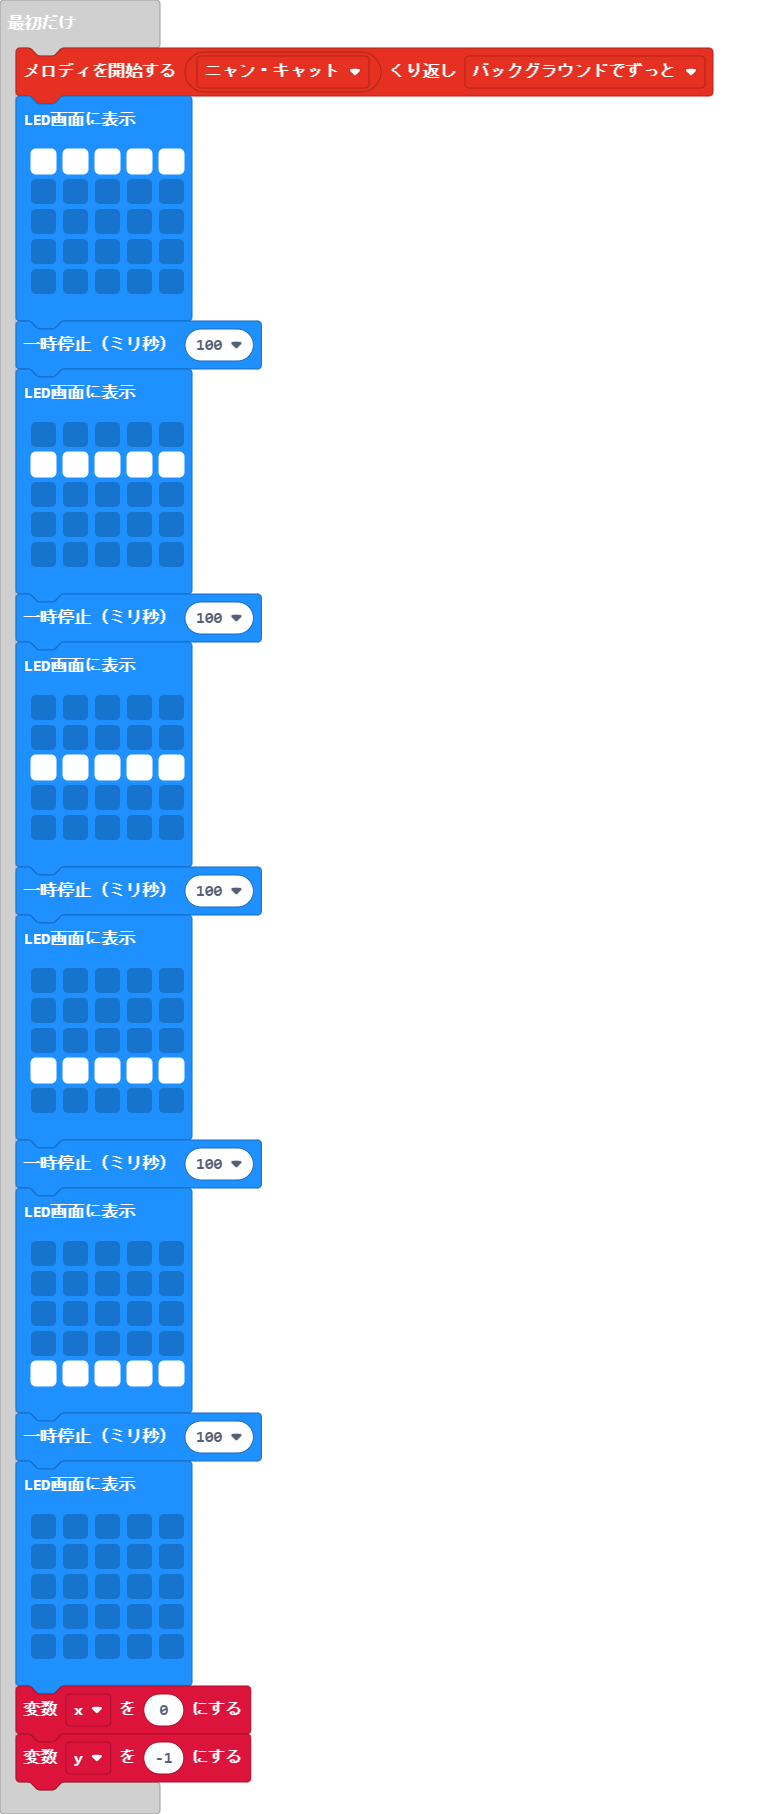
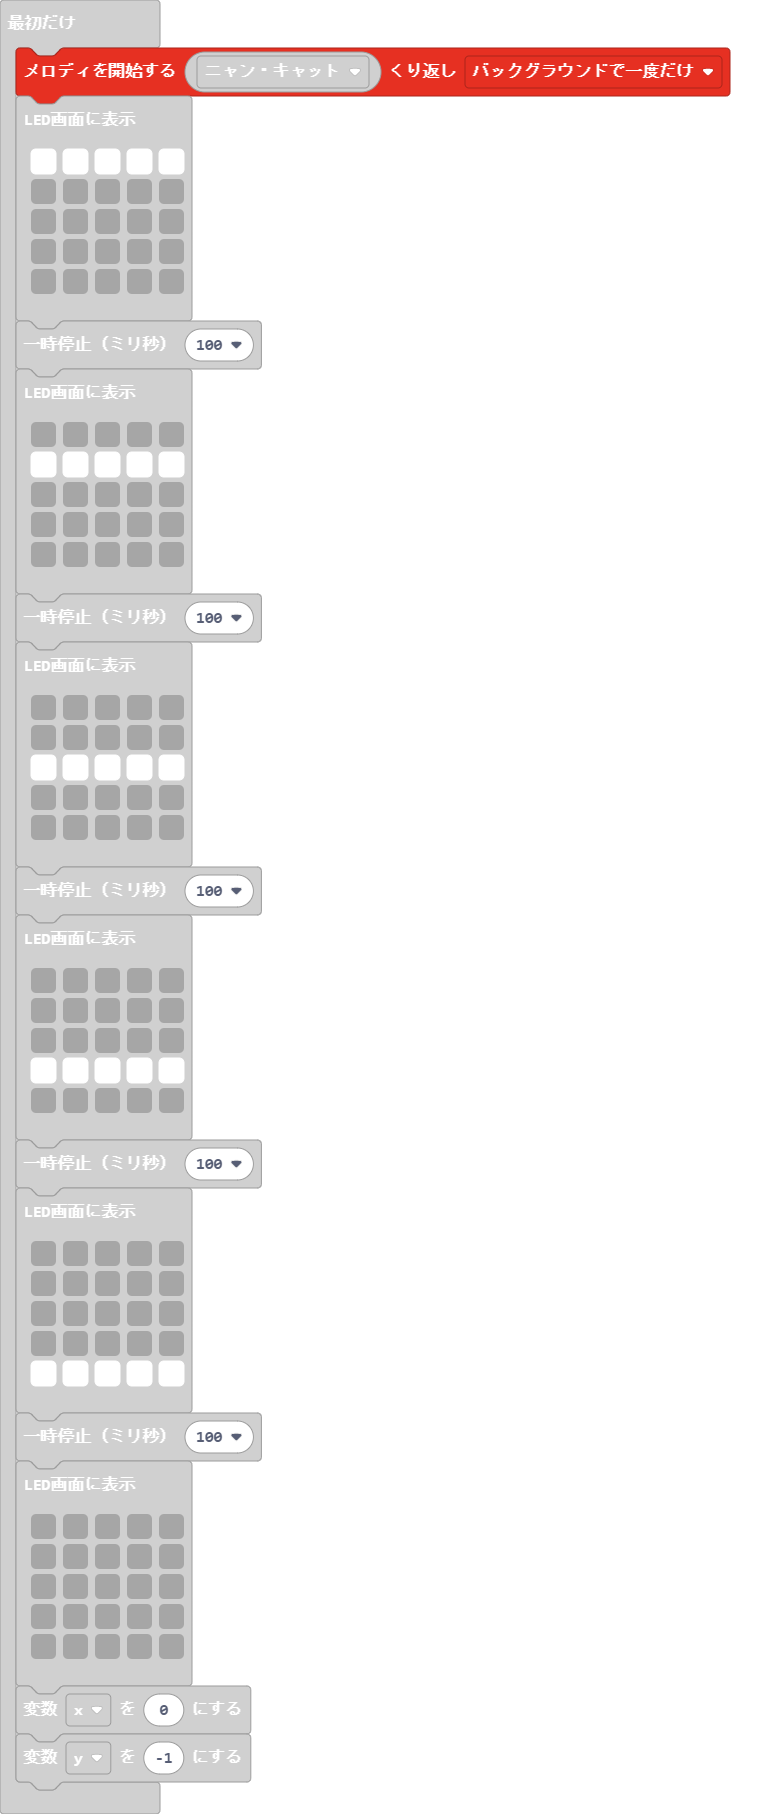
更新 main.blocks, main.ts

Changed region(s): [[0.0, 0.0, 0.8719, 1.0], [0.902, 0.0309, 0.932, 0.0617]]

diff --git a/main.ts b/main.ts
@@ -15,7 +15,7 @@ let iy = 0
 let ix = 0
 let y = 0
 let x = 0
-music.startMelody(music.builtInMelody(Melodies.Nyan), MelodyOptions.ForeverInBackground)
+music.startMelody(music.builtInMelody(Melodies.Nyan), MelodyOptions.OnceInBackground)
 basic.showLeds(`
     # # # # #
     . . . . .
